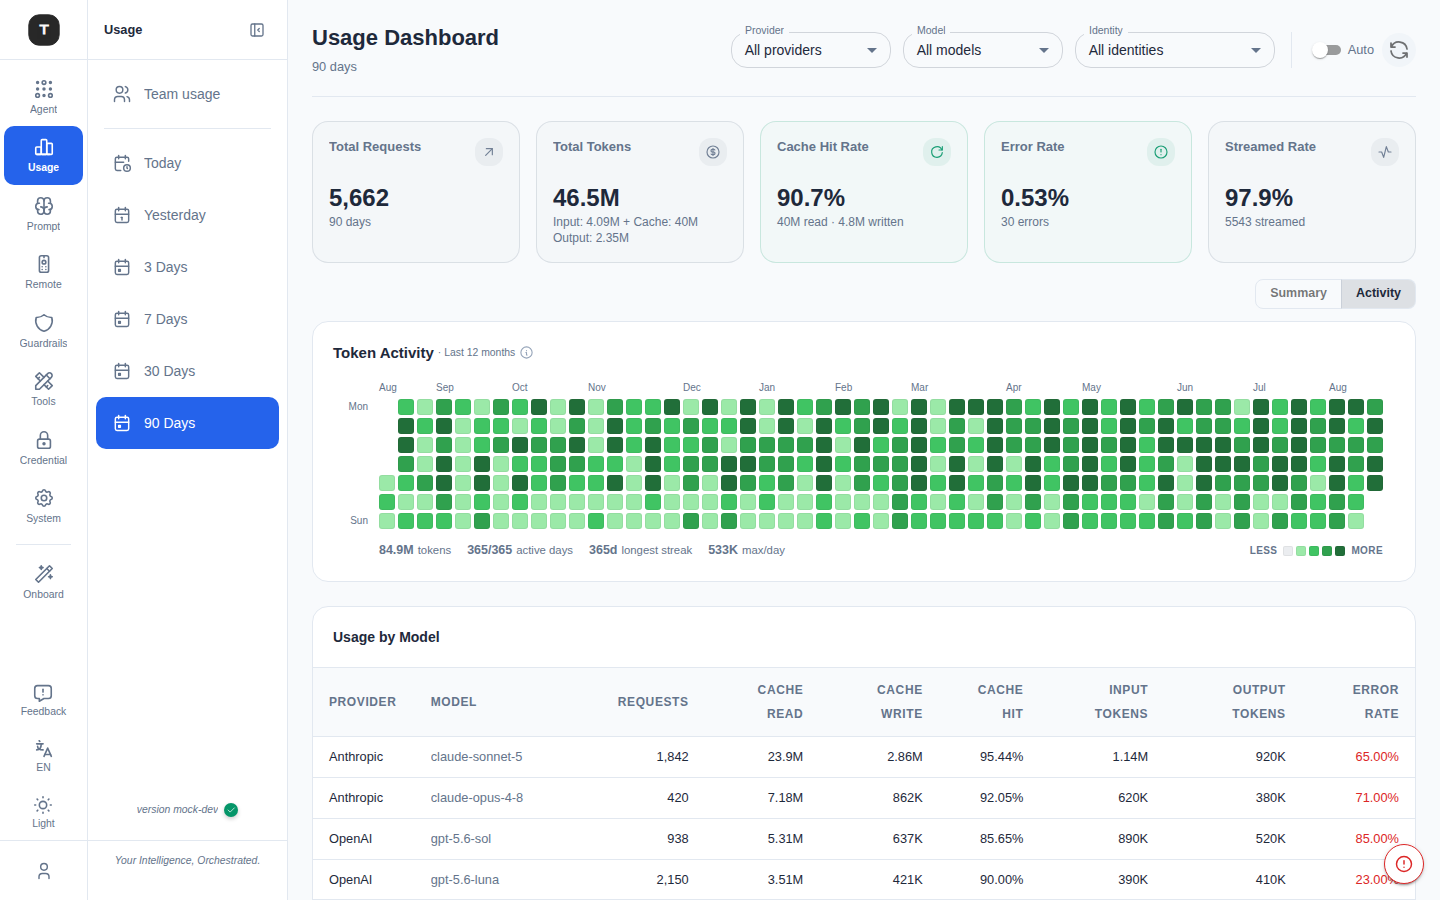
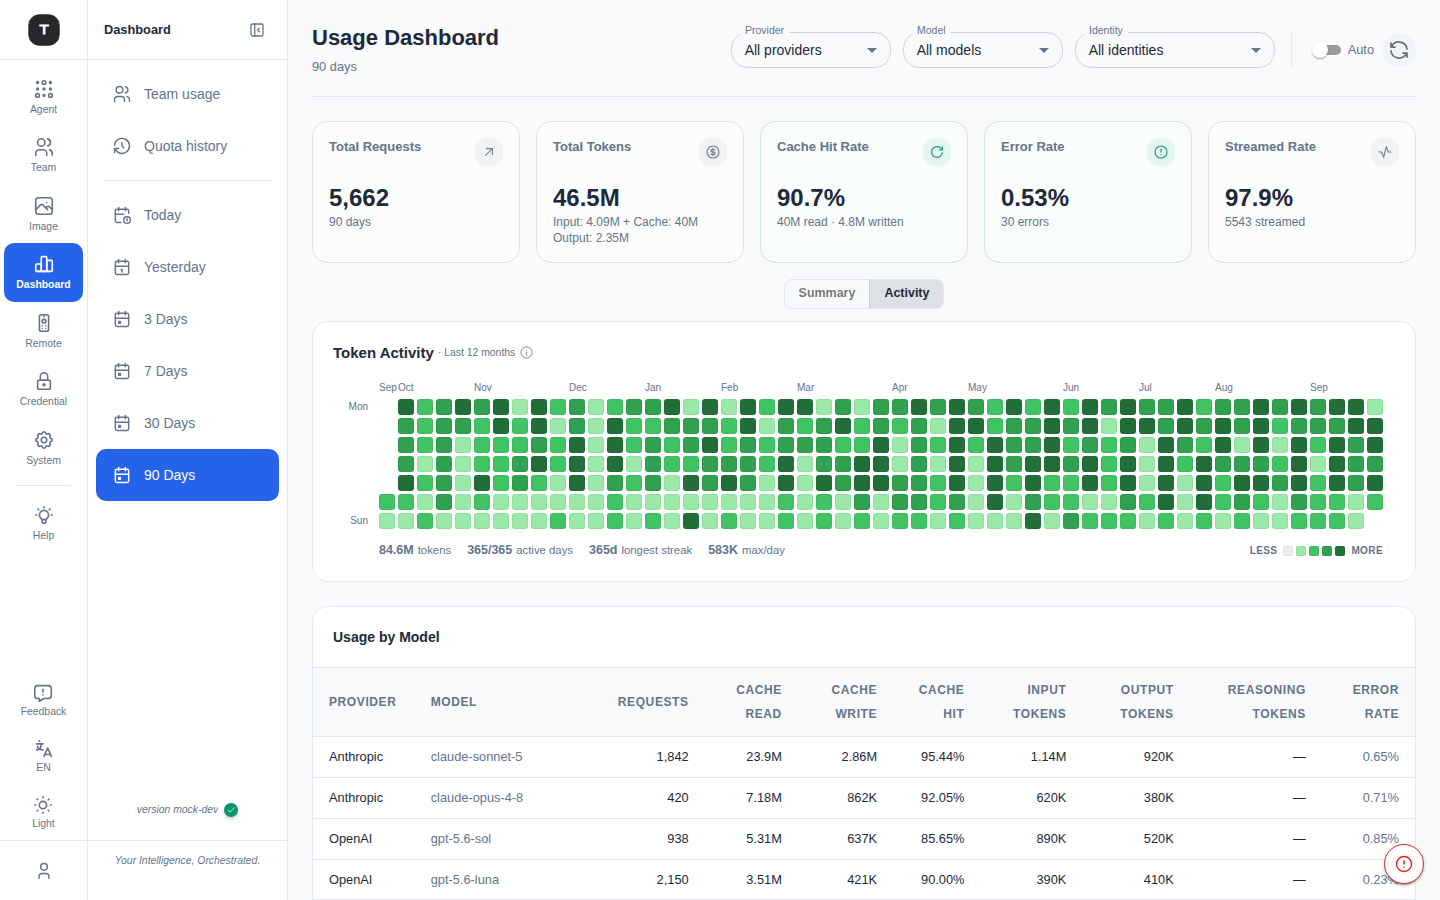
docs: regenerate screenshots in sidebar order, feature Team and Image API
Drop the guardrails and mcp shots (experimental flags are now forced off
so they don't appear in the nav either), add Team, Team usage and Image
API shots, renumber everything to follow the ActivityBar order, and
rebuild output.gif. README gains Team and Image API sections.

Claude-Session: https://claude.ai/code/session_01DBoc6LwcMMJdxxDKbCWa7R

diff --git a/README.md b/README.md
@@ -34,6 +34,7 @@ Tingly Box **serves agents, coordinates AI models, optimizes context, and routes
 * **Production-Ready**
   * Smart Routing — Intelligently route requests across models and tokens based on cost, speed, or custom policies
   * Remote Control — Control AI agents remotely through Telegram, DingTalk, Feishu, Lark, Weixin, WeCom, Slack, and Discord
+  * Image API — Route image generation and editing through the same gateway, with a built-in playground
   * Team Management — Isolate data per user with dedicated API tokens, usage tracking, provider access, and configuration
   * Usage Analytics — Track token consumption, latency, cost estimates, and model selection per request
   * Blazing Fast Performance — Typically adds **< 1ms** of overhead
@@ -138,7 +139,31 @@ Any application is ready to use.
 
 > We've provided detailed config guide in application
 
-![Agent Integration Demo](./docs/images/5-claude-code.png)
+![Agent Integration Demo](./docs/images/2-claude-code.png)
+
+</details>
+
+<details>
+<summary><strong>Team - Shared Model Deployment</strong></summary>
+
+Give your whole team one endpoint backed by centrally managed model rules. Each member gets a dedicated sharing key, and usage is tracked per user.
+
+1. Open Web UI like `http://localhost:12580`
+2. Navigate to **Team**, configure the model rules, then hand out keys via **Sharing Keys**
+3. Track per-user consumption under **Dashboard → Team usage**
+
+![Team Demo](./docs/images/5-team.png)
+
+![Team Usage Demo](./docs/images/8-team-usage.png)
+
+</details>
+
+<details>
+<summary><strong>Image API</strong></summary>
+
+Route image generation and editing through the same gateway. Point any OpenAI-compatible image client at `http://localhost:12580/tingly/imagegen` and pick the upstream image models with rules, like any other scenario. Try prompts right away in **Image → Playground**.
+
+![Image API Demo](./docs/images/6-image-api.png)
 
 </details>
 
@@ -194,7 +219,7 @@ Tingly Box now supports remote control through popular IM platforms. Interact wi
 - Team collaboration with shared agent access
 - Monitor and control agents while away from your workstation
 
-![Remote Control Demo](./docs/images/7-remote.png)
+![Remote Control Demo](./docs/images/10-remote.png)
 
 </details>
 
@@ -257,7 +282,7 @@ Requests route through your OAuth-authorized provider, using your existing Claud
 
 This works with any tool that supports OpenAI-compatible endpoints: Cherry Studio, VS Code extensions, or custom AI agents.
 
-![OAuth Provider Demo](./docs/images/3-connect-ai.png)
+![OAuth Provider Demo](./docs/images/11-connect-ai.png)
 
 </details>
 
@@ -296,7 +321,7 @@ npx tingly-box@latest
 
 Then open `http://localhost:12580` in your browser.
 
-![Dashboard](./docs/images/1-dashboard.png)
+![Dashboard](./docs/images/7-dashboard.png)
 
 </details>
 

diff --git a/.claude/skills/ui-preview/SKILL.md b/.claude/skills/ui-preview/SKILL.md
@@ -91,7 +91,7 @@ const { chromium } = createRequire('file://' + process.cwd() + '/')('playwright'
 | Script | Mode | Purpose |
 |--------|------|---------|
 | [`screenshot.mjs`](screenshot.mjs) | mock | **Ad-hoc template** — copy here and customise; do NOT commit |
-| [`docs-screenshots.mjs`](docs-screenshots.mjs) | mock | All 9 `docs/images/` product screenshots + theme previews |
+| [`docs-screenshots.mjs`](docs-screenshots.mjs) | mock | All 11 `docs/images/` product screenshots (sidebar order) + theme previews |
 | [`regression-credentials.mjs`](regression-credentials.mjs) | mock | Assertion-based regression for `/credentials` Add API Key flow |
 | [`scenario-routing-graph.mjs`](scenario-routing-graph.mjs) | real backend | Codex routing graph screenshots (requires running Go server) |
 
